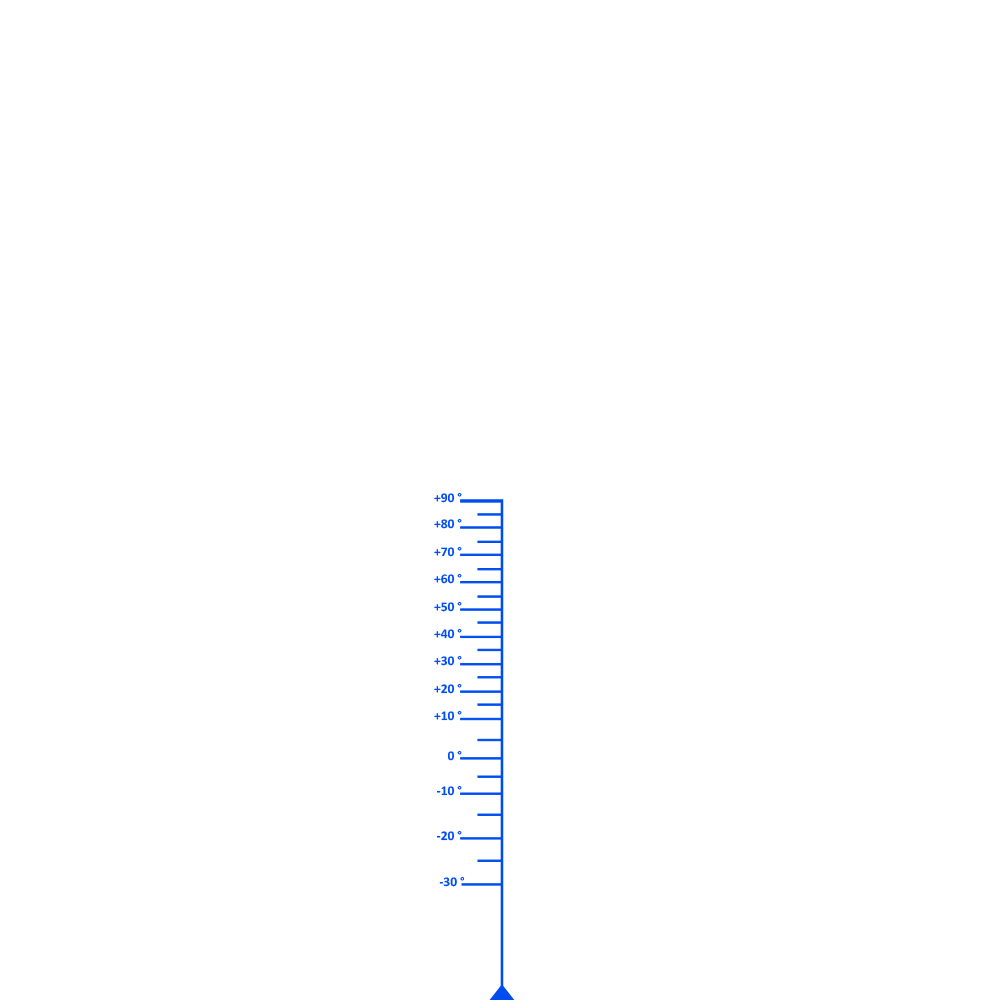
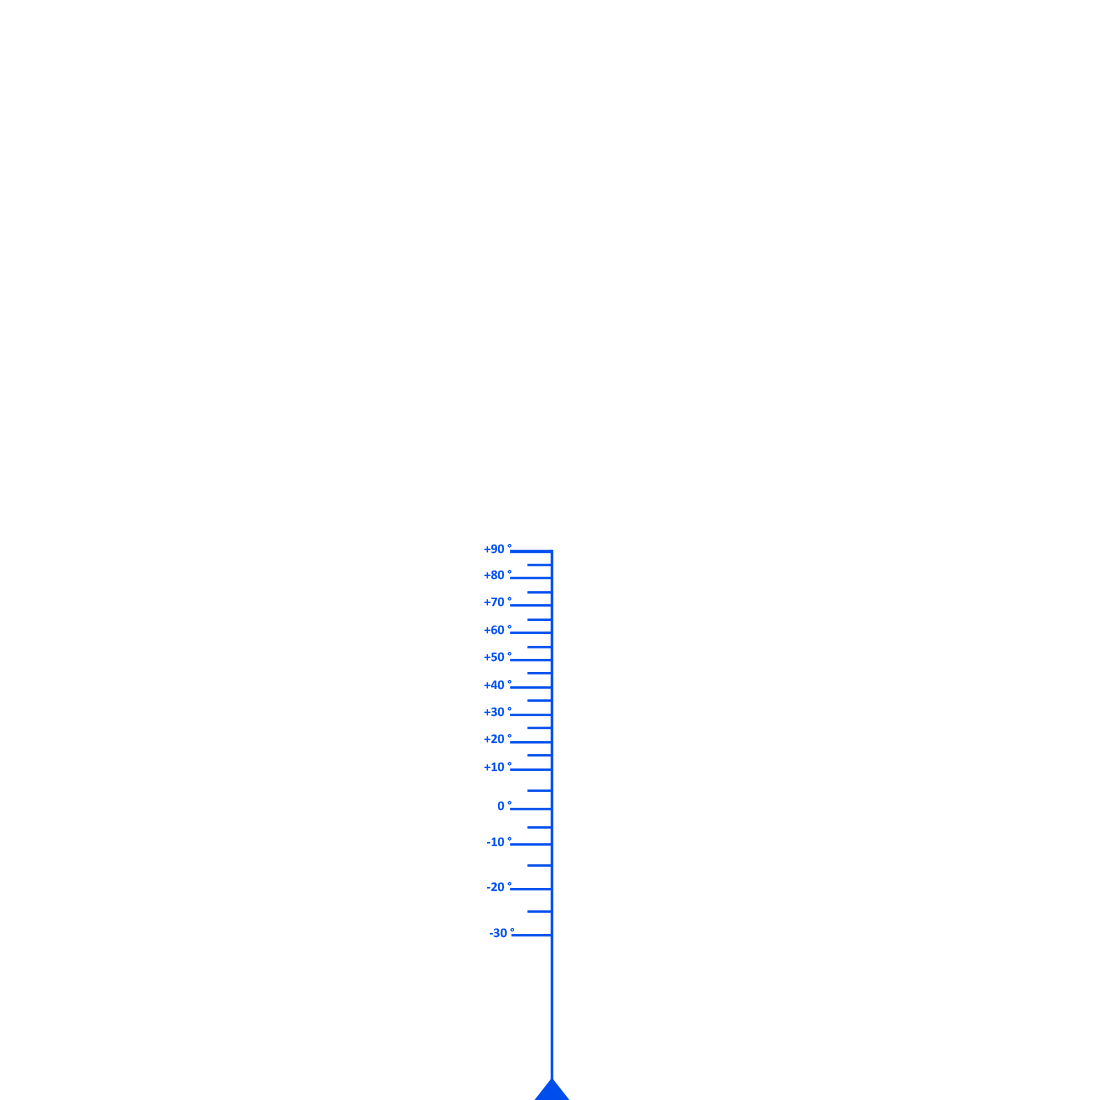
enlarged deklination to fit over the rektaszension

Changed region(s): [[0.434, 0.496, 0.527, 0.899], [0.465, 0.992, 0.527, 1.0]]

diff --git a/src/views/extra/StarsView.vue b/src/views/extra/StarsView.vue
@@ -659,11 +659,17 @@ export default {
     adaptedRektaszensionSize() {
       return this.adaptedSize * (1090 / 1000); // 1090 is the size (in px) of the rektaszension disc
     },
+    adaptedDeklinationSize() {
+      return this.adaptedSize * (1100 / 1000);
+    },
     adaptedSizeStyle() {
       return `${this.adaptedSize}px`;
     },
     adaptedRektaszensionSizeStyle() {
       return `${this.adaptedRektaszensionSize}px`;
+    },
+    adaptedDeklinationSizeStyle() {
+      return `${this.adaptedDeklinationSize}px`;
     },
     showFullSidePanel() {
       return this.screenSize.width - this.adaptedSize > 480;
@@ -750,14 +756,12 @@ export default {
       // Mitteleuropäische Zeit
       if (this.timezone === "MESZ") {
         // Mitteleuropäische SommerZeit
-        // subtract 1 hour
         return this.manipulateTime(-1);
       }
       return this.time;
     },
     mozTime() {
       // Mittlere Ortszeit
-      // subtract 32 minutes
       return this.manipulateTime(0, -32, this.mezTime);
     },
   },
@@ -866,6 +870,10 @@ html[data-theme="dark"] #stars {
   width: 100%;
   height: 100%;
   position: absolute;
+}
+#deklination > img {
+  width: v-bind(adaptedDeklinationSizeStyle) !important;
+  height: v-bind(adaptedDeklinationSizeStyle) !important;
 }
 
 #entireDisc,
